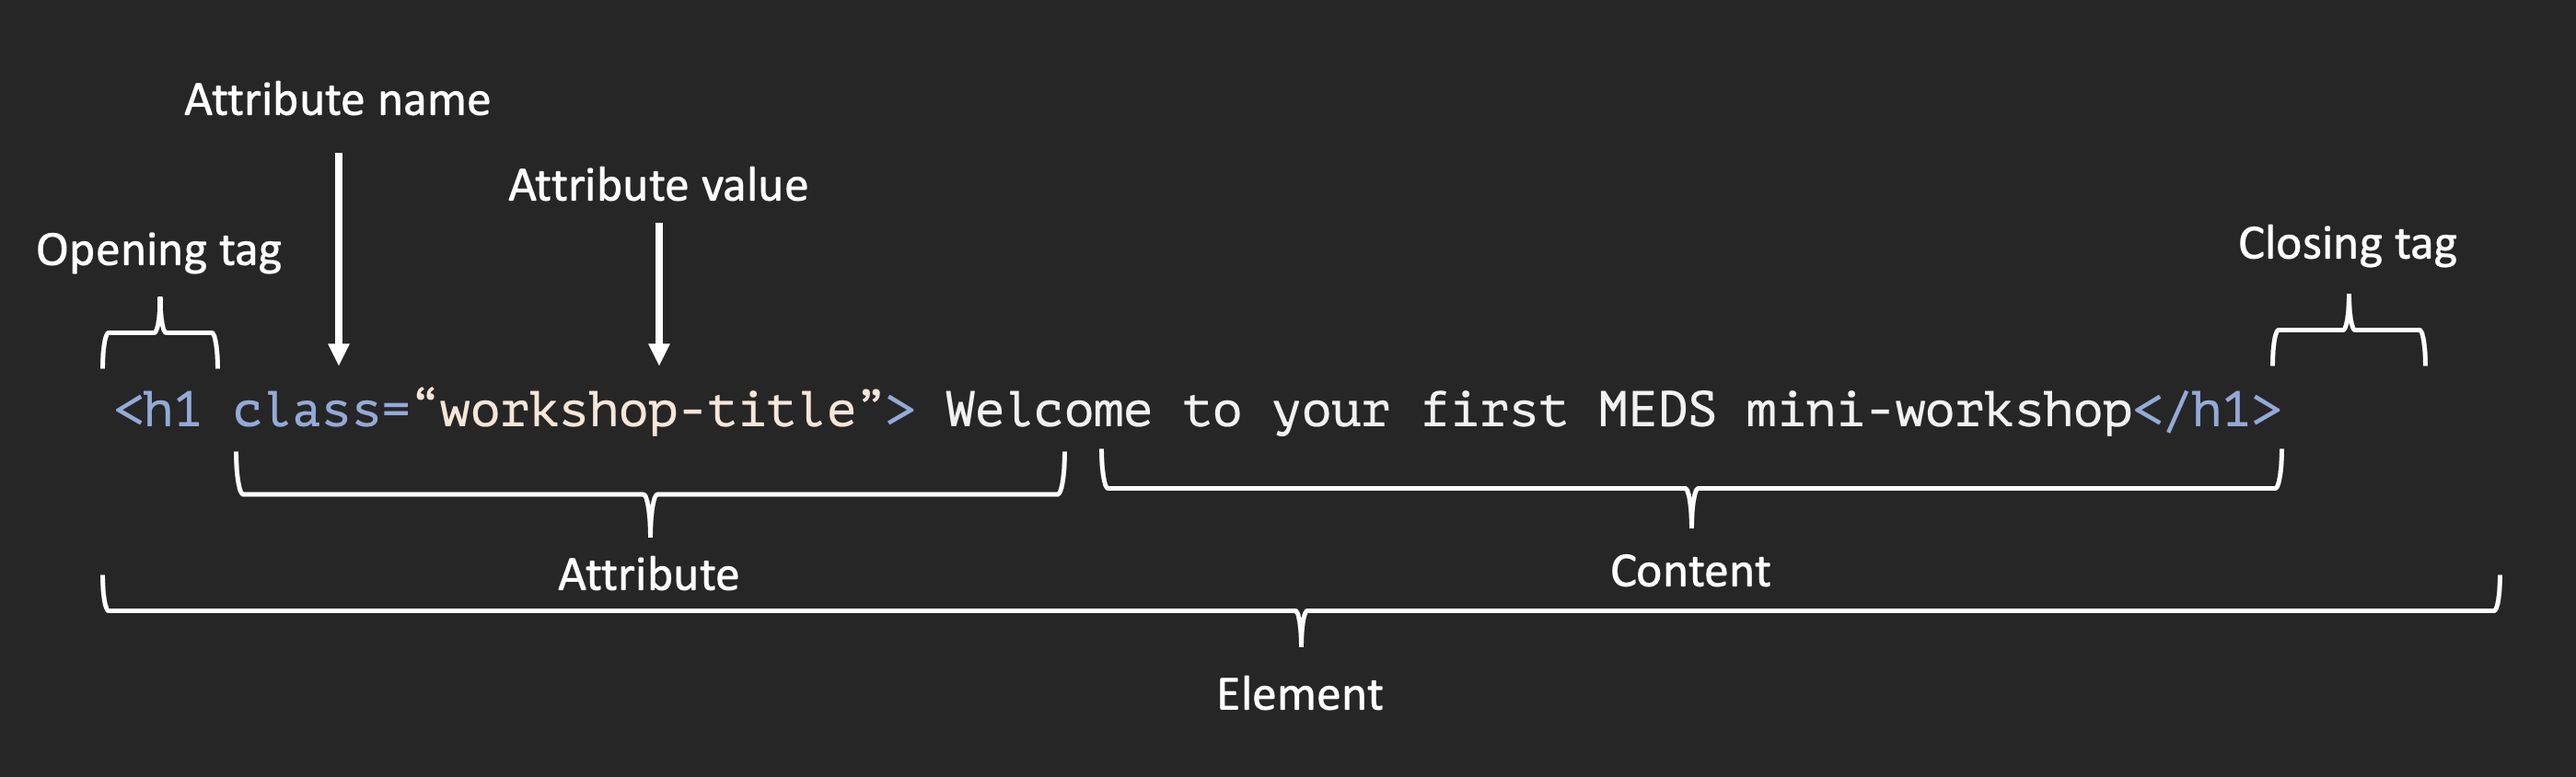
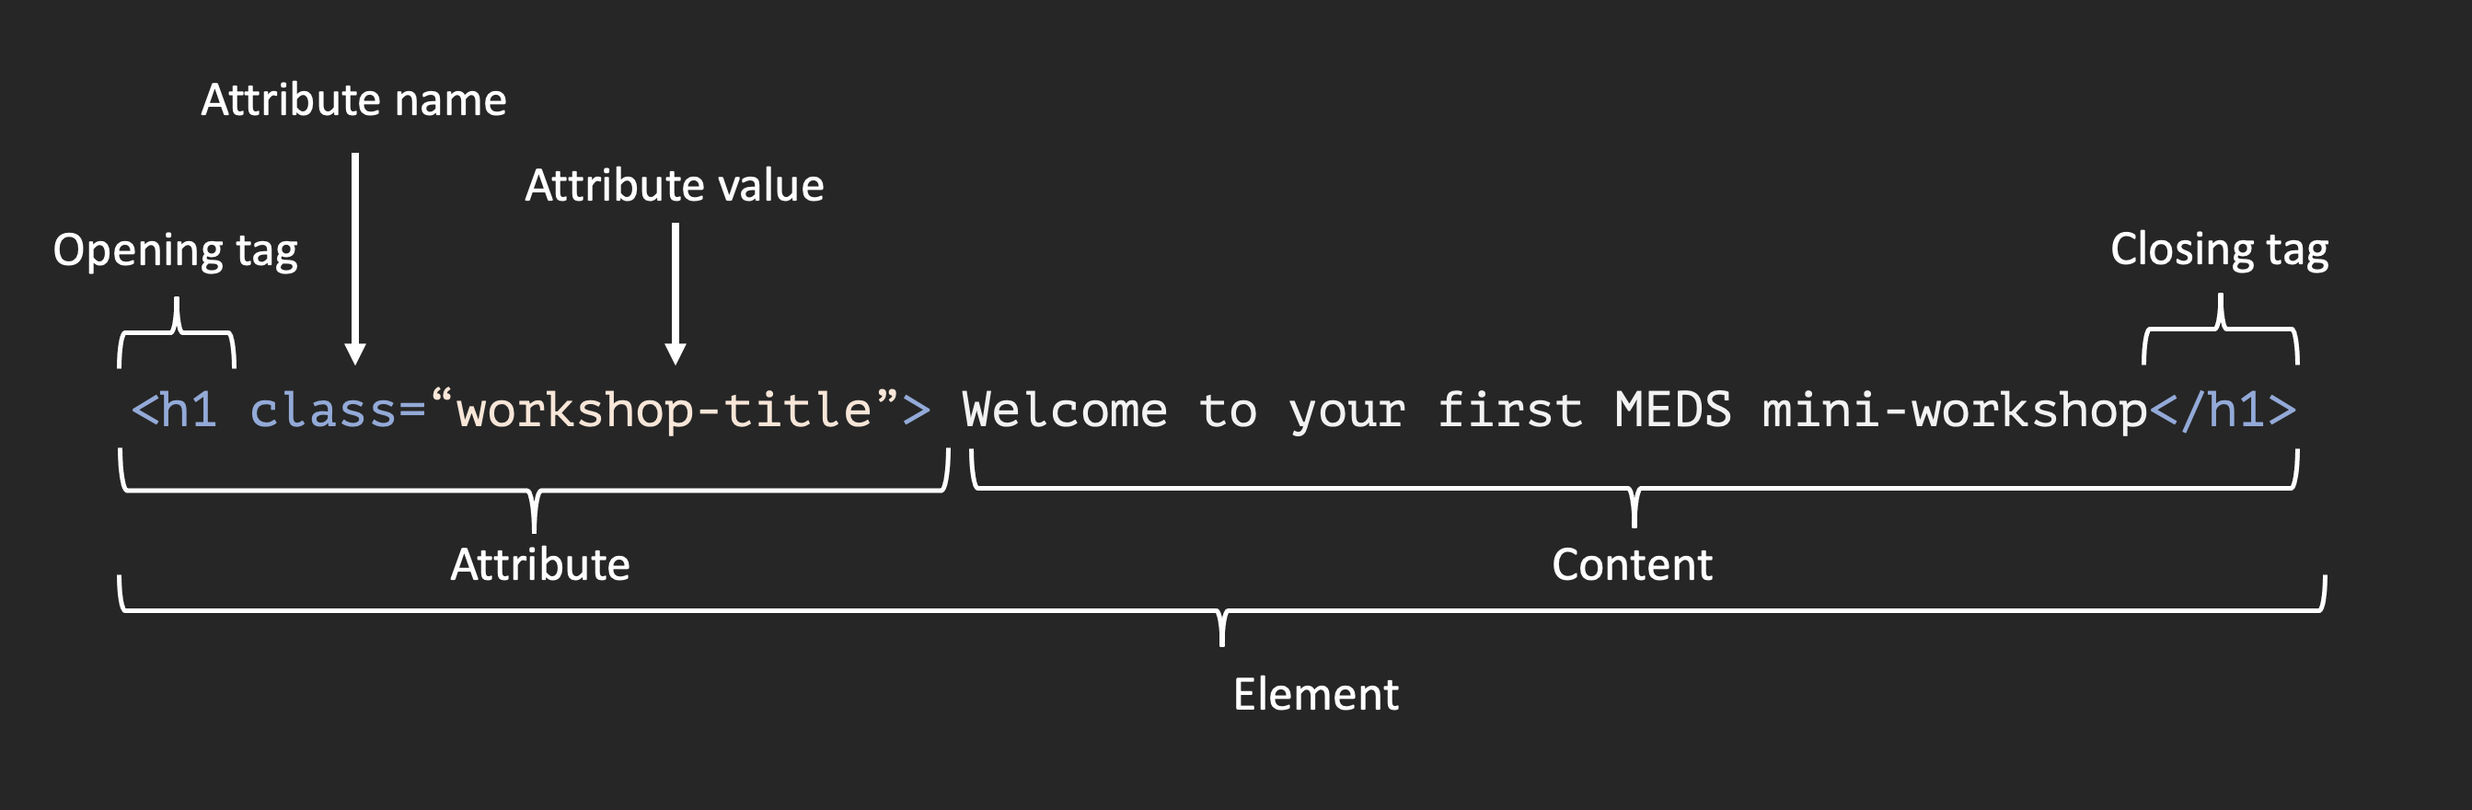
fixed shifted notes in attribute screenshot

diff --git a/index.html b/index.html
@@ -176,7 +176,7 @@ HTML elements can also have **attributes** which contain extra information about
 ]
 
 .center[
-&lt;img src="img/attribute.png" width="60%" /&gt;
+&lt;img src="img/attribute.png" width="65%" /&gt;
 ]
 
 &lt;br&gt; 
